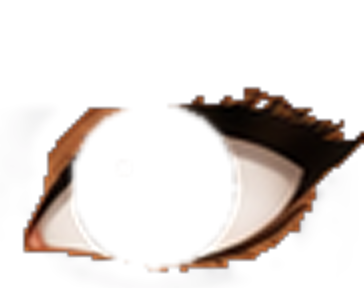
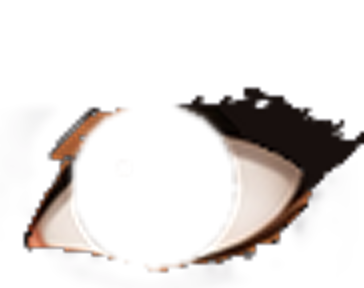
Yeux : eye-liner et cils en encre sombre nette (plus de liseré orangé autour des cils)
Claude-Session: https://claude.ai/code/session_01RffJDTtPaeahFdiXkdY2ya

diff --git a/js/yeux-art.js b/js/yeux-art.js
@@ -1,6 +1,6 @@
 /* yeux décalqués par tools/traceur-yeux.py sur docs/references/yeux/ — ne pas modifier à la main
    [x, y, l, h] de l'image par rapport au centre de l'œil, centre x/y et rayon de l'iris, puis 9 points de la paupière
    (coin intérieur → extérieur) pour les cils dessinés par le jeu (unités du jeu) */
-const EYE_ART={"ronds":{"g":[-38.56,-44.99,74.72,67.49,3.12,-2.31,17.36,[25.71,-4.92],[19.28,-17.31],[12.85,-21.92],[6.43,-23.0],[0.0,-23.3],[-6.43,-24.07],[-12.85,-25.07],[-19.28,-24.55],[-25.71,-19.29]],"d":[-33.34,-44.59,73.11,66.68,-2.86,-2.06,17.44,[-26.11,-3.33],[-19.59,-17.04],[-13.06,-22.18],[-6.52,-23.21],[0.0,-23.13],[6.52,-23.44],[13.06,-24.16],[19.59,-23.82],[26.11,-19.48]]},"amande":{"g":[-39.77,-42.58,77.13,62.67,3.02,-1.31,16.78,[25.31,0.55],[18.98,-13.6],[12.65,-19.32],[6.33,-20.66],[0.0,-20.45],[-6.33,-20.26],[-12.65,-20.5],[-18.98,-20.33],[-25.31,-17.69]],"d":[-37.36,-42.98,77.13,61.06,-3.72,-2.6,16.83,[-25.31,-5.26],[-18.98,-16.92],[-12.65,-21.11],[-6.33,-21.74],[0.0,-21.43],[6.33,-21.56],[12.65,-22.2],[18.98,-22.19],[25.31,-19.07]]},"amandelong":{"g":[-39.37,-40.17,74.72,59.45,2.78,-2.78,16.17,[24.91,-3.23],[18.68,-14.65],[12.45,-18.83],[6.23,-19.51],[0.0,-19.27],[-6.23,-19.45],[-12.45,-20.25],[-18.68,-20.66],[-24.91,-18.48]],"d":[-32.94,-40.57,73.11,57.84,-2.38,-3.56,16.22,[-24.91,-4.33],[-18.68,-15.34],[-12.45,-19.1],[-6.23,-19.5],[0.0,-19.14],[6.23,-19.39],[12.45,-20.42],[18.68,-21.11],[24.91,-19.12]]},"enfonces":{"g":[-38.96,-42.18,77.93,62.67,3.22,-3.12,16.14,[24.5,-6.19],[18.38,-15.91],[12.25,-19.76],[6.12,-20.72],[0.0,-20.81],[-6.12,-21.06],[-12.25,-21.56],[-18.38,-21.43],[-24.5,-18.81]],"d":[-35.75,-41.38,75.52,59.45,-2.69,-2.93,16.09,[-24.5,-3.39],[-18.38,-16.0],[-12.25,-20.16],[-6.12,-20.49],[0.0,-20.09],[6.12,-20.49],[12.25,-21.67],[18.38,-22.01],[24.5,-18.34]]},"sortants":{"g":[-37.36,-42.58,73.91,62.67,8.77,-2.79,16.21,[23.7,-10.57],[17.77,-18.1],[11.85,-21.18],[5.93,-22.0],[0.0,-22.04],[-5.93,-22.06],[-11.85,-22.1],[-17.77,-21.45],[-23.7,-18.7]],"d":[-33.74,-44.99,74.72,61.86,6.1,-5.08,16.14,[-24.91,-2.47],[-18.68,-11.98],[-12.45,-17.19],[-6.23,-20.17],[0.0,-22.2],[6.23,-23.91],[12.45,-25.2],[18.68,-25.24],[24.91,-22.5]]},"petits":{"g":[-39.37,-40.57,76.32,60.25,2.69,-0.91,15.14,[23.3,-2.2],[17.47,-12.28],[11.65,-16.92],[5.82,-18.49],[0.0,-18.67],[-5.82,-18.49],[-11.65,-18.26],[-17.47,-17.63],[-23.3,-15.58]],"d":[-34.14,-38.96,75.52,58.65,-2.79,-1.91,14.97,[-22.9,-2.25],[-17.18,-14.06],[-11.45,-18.52],[-5.72,-19.26],[0.0,-18.78],[5.72,-18.53],[11.45,-18.78],[17.18,-18.76],[22.9,-16.59]]},"grands":{"g":[-39.77,-46.2,74.72,69.09,3.13,-2.55,17.74,[26.11,-1.2],[19.59,-16.93],[13.06,-22.77],[6.52,-23.93],[0.0,-23.9],[-6.52,-24.38],[-13.06,-25.36],[-19.59,-25.02],[-26.11,-19.82]],"d":[-32.54,-46.2,73.11,68.29,-3.12,-2.82,17.71,[-26.11,-3.16],[-19.59,-18.52],[-13.06,-23.75],[-6.52,-24.38],[0.0,-24.05],[6.52,-24.54],[13.06,-25.74],[19.59,-25.67],[26.11,-20.45]]},"tombantes":{"g":[-39.37,-39.77,75.52,58.65,2.9,-3.77,16.09,[24.91,-3.87],[18.68,-14.73],[12.45,-18.7],[6.23,-19.31],[0.0,-18.97],[-6.23,-18.96],[-12.45,-19.47],[-18.68,-19.55],[-24.91,-17.17]],"d":[-37.76,-39.77,77.13,59.45,-2.98,-4.04,16.11,[-24.91,-2.1],[-18.68,-15.1],[-12.45,-19.47],[-6.23,-19.75],[0.0,-19.02],[6.23,-18.94],[12.45,-19.65],[18.68,-19.88],[24.91,-16.86]]},"monolides":{"g":[-39.37,-36.96,74.72,57.04,3.15,-3.31,15.61,[24.1,0.34],[18.08,-12.97],[12.05,-18.03],[6.03,-19.01],[0.0,-18.73],[-6.03,-18.65],[-12.05,-18.89],[-18.08,-18.2],[-24.1,-13.98]],"d":[-38.16,-37.36,77.13,55.43,-3.32,-3.33,15.82,[-24.5,-5.95],[-18.38,-15.24],[-12.25,-18.7],[-6.12,-19.25],[0.0,-18.86],[6.12,-18.58],[12.25,-18.53],[18.38,-17.93],[24.5,-15.03]]},"releves":{"g":[-38.16,-40.57,77.93,60.25,3.02,-2.49,15.4,[23.7,-2.04],[17.77,-14.38],[11.85,-19.01],[5.93,-19.85],[0.0,-19.6],[-5.93,-19.72],[-11.85,-20.42],[-17.77,-20.74],[-23.7,-18.43]],"d":[-36.96,-40.17,77.13,57.04,-3.42,-2.84,15.68,[-24.1,-3.25],[-18.08,-14.87],[-12.05,-19.64],[-6.03,-20.76],[0.0,-20.49],[6.03,-20.21],[12.05,-20.41],[18.08,-20.72],[24.1,-19.83]]}};
+const EYE_ART={"ronds":{"g":[-38.56,-44.99,74.72,67.49,3.12,-2.31,17.36,[25.71,-0.52],[19.28,-12.58],[12.85,-18.88],[6.43,-21.93],[0.0,-23.44],[-6.43,-24.33],[-12.85,-24.71],[-19.28,-23.89],[-25.71,-20.37]],"d":[-33.34,-44.59,73.11,66.68,-2.86,-2.06,17.44,[-26.11,-2.96],[-19.59,-14.86],[-13.06,-20.17],[-6.52,-22.17],[0.0,-22.98],[6.52,-23.69],[13.06,-24.27],[19.59,-23.59],[26.11,-19.44]]},"amande":{"g":[-39.77,-42.58,77.13,62.67,3.02,-1.31,16.78,[25.31,4.2],[18.98,-11.8],[12.65,-18.08],[6.33,-19.49],[0.0,-19.36],[-6.33,-19.53],[-12.65,-20.31],[-18.98,-20.49],[-25.31,-17.37]],"d":[-37.36,-42.98,77.13,61.06,-3.72,-2.6,16.83,[-25.31,-1.66],[-18.98,-15.54],[-12.65,-20.22],[-6.33,-20.78],[0.0,-20.53],[6.33,-21.1],[12.65,-22.37],[18.98,-22.52],[25.31,-17.97]]},"amandelong":{"g":[-39.37,-40.17,74.72,59.45,2.78,-2.78,16.17,[24.91,2.16],[18.68,-11.81],[12.45,-17.68],[6.23,-19.31],[0.0,-19.4],[-6.23,-19.53],[-12.45,-20.14],[-18.68,-20.5],[-24.91,-18.76]],"d":[-32.94,-40.57,73.11,57.84,-2.38,-3.56,16.22,[-24.91,-1.76],[-18.68,-13.91],[-12.45,-18.38],[-6.23,-19.18],[0.0,-19.02],[6.23,-19.37],[12.45,-20.42],[18.68,-21.12],[24.91,-19.1]]},"enfonces":{"g":[-38.96,-42.18,77.93,62.67,3.22,-3.12,16.14,[24.5,-0.43],[18.38,-14.12],[12.25,-19.36],[6.12,-20.42],[0.0,-20.21],[-6.12,-20.31],[-12.25,-20.98],[-18.38,-21.13],[-24.5,-18.37]],"d":[-35.75,-41.38,75.52,59.45,-2.69,-2.93,16.09,[-24.5,-1.22],[-18.38,-14.95],[-12.25,-19.55],[-6.12,-20.02],[0.0,-19.7],[6.12,-20.23],[12.25,-21.56],[18.38,-21.95],[24.5,-17.98]]},"sortants":{"g":[-37.36,-42.58,73.91,62.67,8.77,-2.79,16.21,[23.7,-10.17],[17.77,-17.38],[11.85,-20.5],[5.93,-21.53],[0.0,-21.8],[-5.93,-21.97],[-11.85,-22.06],[-17.77,-21.43],[-23.7,-18.78]],"d":[-33.74,-44.99,74.72,61.86,6.1,-5.08,16.14,[-24.91,0.0],[-18.68,-10.83],[-12.45,-17.02],[-6.23,-20.41],[0.0,-22.32],[6.23,-23.52],[12.45,-24.27],[18.68,-24.28],[24.91,-22.74]]},"petits":{"g":[-39.37,-40.57,76.32,60.25,2.69,-0.91,15.14,[23.3,3.81],[17.47,-10.52],[11.65,-16.13],[5.82,-17.33],[0.0,-17.1],[-5.82,-17.09],[-11.65,-17.63],[-17.47,-17.75],[-23.3,-15.1]],"d":[-34.14,-38.96,75.52,58.65,-2.79,-1.91,14.97,[-22.9,1.49],[-17.18,-11.05],[-11.45,-16.5],[-5.72,-18.15],[0.0,-18.32],[5.72,-18.35],[11.45,-18.6],[17.18,-18.44],[22.9,-16.26]]},"grands":{"g":[-39.77,-46.2,74.72,69.09,3.13,-2.55,17.74,[26.11,-0.96],[19.59,-14.72],[13.06,-20.97],[6.52,-23.27],[0.0,-24.07],[-6.52,-24.62],[-13.06,-25.07],[-19.59,-24.38],[-26.11,-20.37]],"d":[-32.54,-46.2,73.11,68.29,-3.12,-2.82,17.71,[-26.11,-2.82],[-19.59,-15.53],[-13.06,-21.3],[-6.52,-23.47],[0.0,-24.27],[6.52,-24.88],[13.06,-25.39],[19.59,-24.78],[26.11,-20.96]]},"tombantes":{"g":[-39.37,-39.77,75.52,58.65,2.9,-3.77,16.09,[24.91,0.93],[18.68,-12.93],[12.45,-18.31],[6.23,-19.38],[0.0,-19.05],[-6.23,-18.94],[-12.45,-19.42],[-18.68,-19.55],[-24.91,-17.17]],"d":[-37.76,-39.77,77.13,59.45,-2.98,-4.04,16.11,[-24.91,-0.56],[-18.68,-13.7],[-12.45,-18.65],[-6.23,-19.51],[0.0,-19.14],[6.23,-19.08],[12.45,-19.6],[18.68,-19.72],[24.91,-17.15]]},"monolides":{"g":[-39.37,-36.96,74.72,57.04,3.15,-3.31,15.61,[24.1,0.63],[18.08,-11.45],[12.05,-16.74],[6.03,-18.44],[0.0,-18.74],[-6.03,-18.8],[-12.05,-18.82],[-18.08,-17.96],[-24.1,-14.4]],"d":[-38.16,-37.36,77.13,55.43,-3.32,-3.33,15.82,[-24.5,0.35],[-18.38,-13.14],[-12.25,-18.34],[-6.12,-19.3],[0.0,-18.82],[6.12,-18.46],[12.25,-18.53],[18.38,-18.04],[24.5,-14.82]]},"releves":{"g":[-38.16,-40.57,77.93,60.25,3.02,-2.49,15.4,[23.7,1.52],[17.77,-12.7],[11.85,-18.03],[5.93,-19.06],[0.0,-18.94],[-5.93,-19.32],[-11.85,-20.41],[-17.77,-20.94],[-23.7,-18.14]],"d":[-36.96,-40.17,77.13,57.04,-3.42,-2.84,15.68,[-24.1,1.33],[-18.08,-12.32],[-12.05,-17.88],[-6.03,-19.23],[0.0,-19.15],[6.03,-19.27],[12.05,-20.03],[18.08,-20.78],[24.1,-19.7]]}};
 const EYE_IRIS_LUM=[0.037, 0.159, 0.864];
 const EYE_LASHES=["naturels", "longs", "epais", "espaces", "recourbes"];

diff --git a/tools/traceur-yeux.py b/tools/traceur-yeux.py
@@ -174,13 +174,19 @@ for sid, (x, y, w, h) in SHAPES:
         inside = np.isin(l_, [l for l in np.unique(l_[seed]) if l])
         inside = binary_fill_holes(cv2.morphologyEx(inside.astype(np.uint8), cv2.MORPH_CLOSE, cv2.getStructuringElement(cv2.MORPH_ELLIPSE, (7, 7))))
         near = cv2.dilate(inside.astype(np.uint8), np.ones((9, 9), np.uint8)).astype(bool)
-        darkn = ((cf.mean(2) < skL0 * .72) | ((cf.mean(2) < skL0 * .9) & cv2.dilate(inside.astype(np.uint8), np.ones((5, 5), np.uint8)).astype(bool))) & near & (zone > .3)      # trait et cils autour de l'ouverture (coin intérieur compris)
+        darkn = (cf.mean(2) < skL0 * .72) & near & (zone > .3)      # trait et cils autour de l'ouverture (coin intérieur compris)
         # tout ce qui est entouré par le trait de l'œil fait partie de l'œil (ombre du blanc sous la paupière comprise)
         encl = binary_fill_holes(cv2.morphologyEx((darkn | inside).astype(np.uint8), cv2.MORPH_CLOSE, np.ones((3, 3), np.uint8)))
         inside = inside | (encl & ~darkn)
         E = (E & ((cf.mean(2) < skL0 * .72) | inside)) | darkn | inside
         a = np.where(inside, 1.0, a)
         col = np.where(inside[..., None], cf, col)
+        # trait, eye-liner et cils : encre sombre, transparence selon l'obscurité (plus de liseré orangé autour des cils)
+        ink = E & ~inside
+        dk_a = np.clip(((skL0 - cf.mean(2)) / np.maximum(skL0, 1) - .12) / .4, 0, 1)
+        dk_a = np.clip((dk_a - .5) * 1.6 + .5, 0, 1)
+        a = np.where(ink, dk_a, a)
+        col = np.where(ink[..., None], np.array([14, 16, 24], np.float32), col)
         col = np.where(E[..., None], col, np.array([30, 20, 26], np.float32))
         a = np.where(E, a, sh)
         # iris : dans le cercle, ni peau, ni blanc (les reflets restent dans l'image du dessus)
